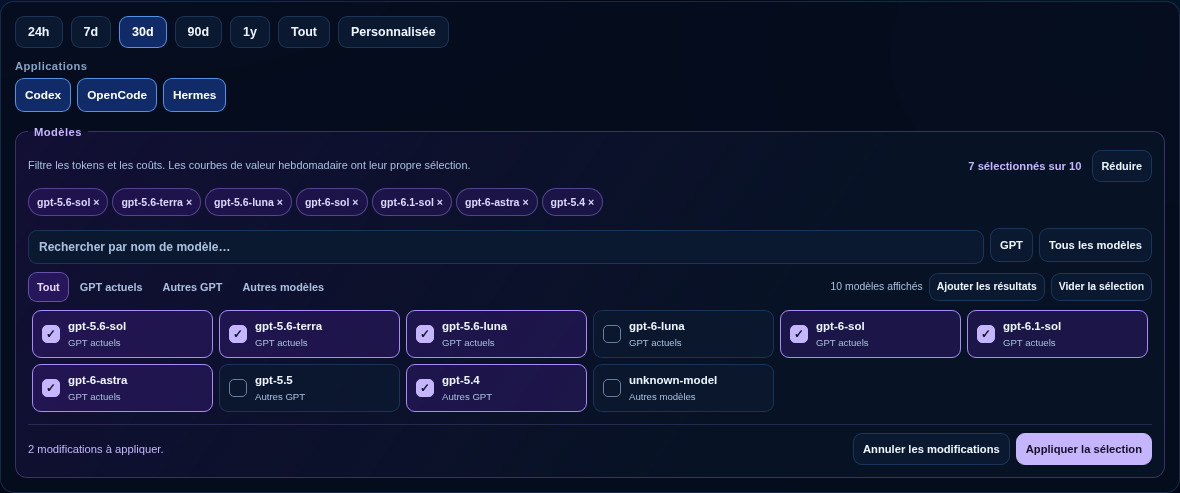
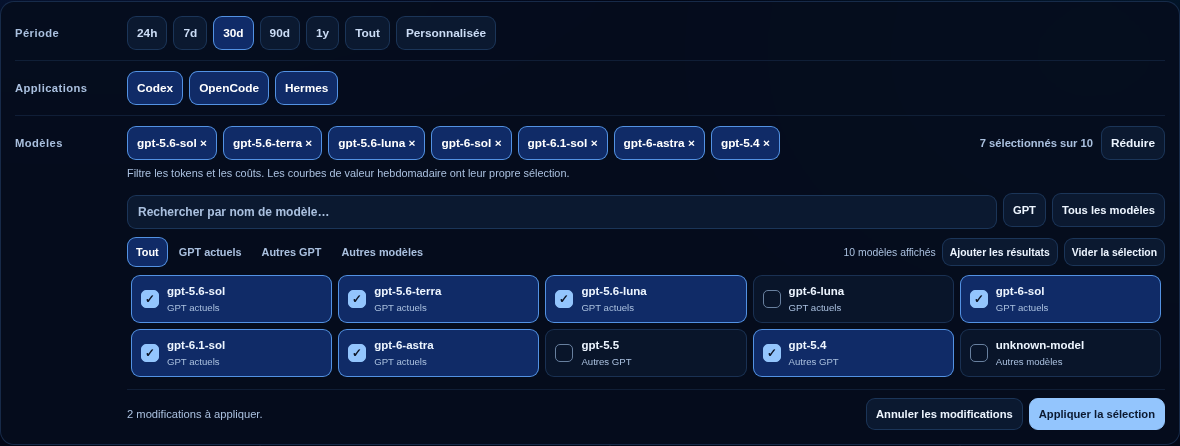
refactor: unify date, application and model filter design

diff --git a/local/analytics.html b/local/analytics.html
@@ -42,58 +42,65 @@
 
   <main class="analytics-shell">
     <section class="filter-panel" data-i18n-aria-label="analytics.filtersAria" aria-label="Analytics filters">
-      <div class="range-group" id="range-group" data-i18n-aria-label="analytics.dateRange" aria-label="Date range">
-        <button type="button" data-range="24h">24h</button>
-        <button type="button" data-range="7d">7d</button>
-        <button type="button" data-range="30d" class="active">30d</button>
-        <button type="button" data-range="90d">90d</button>
-        <button type="button" data-range="1y">1y</button>
-        <button type="button" data-range="all" data-i18n="analytics.all">All</button>
-        <button type="button" data-range="custom" data-i18n="analytics.custom">Custom</button>
-      </div>
       <div class="filter-fields">
-        <fieldset class="multi-filter">
+        <fieldset class="multi-filter filter-section period-filter">
+          <legend data-i18n="analytics.dateRange">Date range</legend>
+          <div class="filter-section-content">
+            <div class="range-group" id="range-group">
+              <button type="button" class="filter-option" data-range="24h" aria-pressed="false">24h</button>
+              <button type="button" class="filter-option" data-range="7d" aria-pressed="false">7d</button>
+              <button type="button" class="filter-option active" data-range="30d" aria-pressed="true">30d</button>
+              <button type="button" class="filter-option" data-range="90d" aria-pressed="false">90d</button>
+              <button type="button" class="filter-option" data-range="1y" aria-pressed="false">1y</button>
+              <button type="button" class="filter-option" data-range="all" aria-pressed="false" data-i18n="analytics.all">All</button>
+              <button type="button" class="filter-option" data-range="custom" aria-pressed="false" data-i18n="analytics.custom">Custom</button>
+            </div>
+            <div class="custom-dates" id="custom-dates" hidden>
+              <label><span data-i18n="analytics.from">From</span> <input id="from-date" type="date"></label>
+              <label><span data-i18n="analytics.to">To</span> <input id="to-date" type="date"></label>
+              <button type="button" id="apply-dates" data-i18n="analytics.apply">Apply</button>
+            </div>
+          </div>
+        </fieldset>
+        <fieldset class="multi-filter filter-section application-filter">
           <legend data-i18n="analytics.applications">Applications</legend>
-          <div class="filter-options" id="source-filter">
+          <div class="filter-section-content filter-options" id="source-filter">
             <button type="button" class="filter-option" data-filter-value="codex" aria-pressed="true">Codex</button>
             <button type="button" class="filter-option" data-filter-value="opencode" aria-pressed="true">OpenCode</button>
             <button type="button" class="filter-option" data-filter-value="hermes" aria-pressed="true">Hermes</button>
           </div>
         </fieldset>
-        <fieldset class="multi-filter model-filter">
+        <fieldset class="multi-filter filter-section model-filter">
           <legend data-i18n="analytics.models">Models</legend>
-          <div class="model-heading">
+          <div class="filter-section-content">
+            <div class="model-selection-row">
+              <div id="model-selection-tray" class="model-selection-tray" data-i18n-aria-label="analytics.selectedModels" aria-label="Selected models"></div>
+              <div class="model-heading-controls"><p id="model-selection-summary" class="model-selection-summary" role="status" aria-live="polite"></p><button type="button" id="toggle-model-explorer" aria-expanded="false" aria-controls="model-explorer" data-i18n="analytics.showModels">Explore models</button></div>
+            </div>
             <p class="model-scope" data-i18n="analytics.modelScope">Filter token usage and cost. Weekly value curves have their own selection.</p>
-            <div class="model-heading-controls"><p id="model-selection-summary" class="model-selection-summary" role="status" aria-live="polite"></p><button type="button" id="toggle-model-explorer" aria-expanded="false" aria-controls="model-explorer" data-i18n="analytics.showModels">Explore models</button></div>
-          </div>
-          <div id="model-selection-tray" class="model-selection-tray" data-i18n-aria-label="analytics.selectedModels" aria-label="Selected models"></div>
-          <div id="model-explorer" hidden>
-            <div class="model-toolbar">
-              <label class="model-search"><span class="sr-only" data-i18n="analytics.searchModels">Search models</span><input id="model-search" type="search" autocomplete="off" spellcheck="false" data-i18n-placeholder="analytics.searchModelsPlaceholder" placeholder="Search by model name…" aria-controls="model-filter"></label>
-              <div class="filter-actions">
-                <button type="button" id="select-gpt" data-i18n="analytics.selectGpt">GPT</button>
-                <button type="button" id="select-all-models" data-i18n="analytics.allModels">All models</button>
+            <div id="model-explorer" hidden>
+              <div class="model-toolbar">
+                <label class="model-search"><span class="sr-only" data-i18n="analytics.searchModels">Search models</span><input id="model-search" type="search" autocomplete="off" spellcheck="false" data-i18n-placeholder="analytics.searchModelsPlaceholder" placeholder="Search by model name…" aria-controls="model-filter"></label>
+                <div class="filter-actions">
+                  <button type="button" id="select-gpt" data-i18n="analytics.selectGpt">GPT</button>
+                  <button type="button" id="select-all-models" data-i18n="analytics.allModels">All models</button>
+                </div>
               </div>
-            </div>
-            <div class="model-browse-bar">
-              <div class="model-families" id="model-families" data-i18n-aria-label="analytics.modelFamilies" aria-label="Model families">
-                <button type="button" data-model-family="all" aria-pressed="true" data-i18n="analytics.all">All</button>
-                <button type="button" data-model-family="current" aria-pressed="false" data-i18n="analytics.currentGpt">Current GPT</button>
-                <button type="button" data-model-family="older" aria-pressed="false" data-i18n="analytics.olderGpt">Other GPT</button>
-                <button type="button" data-model-family="other" aria-pressed="false" data-i18n="analytics.otherModels">Other models</button>
+              <div class="model-browse-bar">
+                <div class="model-families" id="model-families" data-i18n-aria-label="analytics.modelFamilies" aria-label="Model families">
+                  <button type="button" data-model-family="all" aria-pressed="true" data-i18n="analytics.all">All</button>
+                  <button type="button" data-model-family="current" aria-pressed="false" data-i18n="analytics.currentGpt">Current GPT</button>
+                  <button type="button" data-model-family="older" aria-pressed="false" data-i18n="analytics.olderGpt">Other GPT</button>
+                  <button type="button" data-model-family="other" aria-pressed="false" data-i18n="analytics.otherModels">Other models</button>
+                </div>
+                <div class="model-results-bar"><span id="model-results-count" role="status" aria-live="polite"></span><button type="button" id="select-visible-models" data-i18n="analytics.addVisibleModels">Add visible</button><button type="button" id="clear-model-selection" data-i18n="analytics.clearModelSelection">Clear selection</button></div>
               </div>
-              <div class="model-results-bar"><span id="model-results-count" role="status" aria-live="polite"></span><button type="button" id="select-visible-models" data-i18n="analytics.addVisibleModels">Add visible</button><button type="button" id="clear-model-selection" data-i18n="analytics.clearModelSelection">Clear selection</button></div>
+              <div class="filter-options model-catalog" id="model-filter"></div>
+              <p id="model-search-empty" class="model-empty" hidden></p>
             </div>
-            <div class="filter-options model-catalog" id="model-filter"></div>
-            <p id="model-search-empty" class="model-empty" hidden></p>
+            <div class="model-apply-bar" id="model-apply-bar" hidden><p id="model-draft-status" role="status" aria-live="polite"></p><div><button type="button" id="reset-model-selection" data-i18n="analytics.cancelModelChanges">Cancel changes</button><button type="button" id="apply-model-selection" data-i18n="analytics.applyModelSelection">Apply selection</button></div></div>
           </div>
-          <div class="model-apply-bar" id="model-apply-bar" hidden><p id="model-draft-status" role="status" aria-live="polite"></p><div><button type="button" id="reset-model-selection" data-i18n="analytics.cancelModelChanges">Cancel changes</button><button type="button" id="apply-model-selection" data-i18n="analytics.applyModelSelection">Apply selection</button></div></div>
         </fieldset>
-        <div class="custom-dates" id="custom-dates" hidden>
-          <label><span data-i18n="analytics.from">From</span> <input id="from-date" type="date"></label>
-          <label><span data-i18n="analytics.to">To</span> <input id="to-date" type="date"></label>
-          <button type="button" id="apply-dates" data-i18n="analytics.apply">Apply</button>
-        </div>
       </div>
     </section>
 

diff --git a/local/assets/analytics.css b/local/assets/analytics.css
@@ -80,25 +80,38 @@
   display: flex;
   align-items: end;
   flex-wrap: wrap;
-  gap: 8px;
+  gap: 6px;
 }
 
-.filter-fields { margin-top: 12px; }
+.filter-fields { display: block; margin-top: 0; }
 
 .multi-filter {
-  min-width: 220px;
+  min-width: 0;
   max-width: 100%;
   padding: 0;
+  margin: 0;
   border: 0;
 }
 
-.multi-filter legend {
-  color: var(--muted);
+.filter-section + .filter-section {
+  margin-top: 10px;
+  padding-top: 10px;
+  border-top: 1px solid rgba(96, 165, 250, .12);
+}
+.filter-section > legend {
+  float: left;
+  width: 100px;
+  padding: 8px 0;
+  color: #aac0df;
   font-size: .7rem;
   font-weight: 700;
   letter-spacing: .04em;
-  margin-bottom: 6px;
+  line-height: 18px;
 }
+.filter-section-content { margin-left: 112px; min-width: 0; }
+.filter-section::after { content: ''; display: block; clear: both; }
+.custom-dates { margin-top: 8px; }
+.filter-panel [hidden] { display: none !important; }
 
 .filter-options {
   display: flex;
@@ -121,7 +134,9 @@
   letter-spacing: 0;
 }
 
-.filter-option[aria-pressed="true"] {
+.filter-option[aria-pressed="true"],
+.filter-option.active,
+.filter-option.selected-model {
   color: #fff;
   border-color: rgba(96, 165, 250, .85);
   background: rgba(37, 99, 235, .36);
@@ -130,24 +145,14 @@
 .filter-actions { display: flex; flex-wrap: wrap; gap: 6px; margin-bottom: 6px; }
 .filter-actions button { padding: 6px 9px; font-size: .7rem; }
 
-.model-filter {
-  flex-basis: 100%;
-  min-width: 0;
-  margin: 6px 0 0;
-  padding: 12px;
-  border: 1px solid rgba(167, 139, 250, .28);
-  border-radius: 12px;
-  background: linear-gradient(125deg, rgba(109, 40, 217, .13), rgba(8, 19, 38, .95) 65%);
-}
-.model-filter legend { padding: 0 6px; margin: 0; color: #c4b5fd; }
-.model-heading { display: flex; justify-content: space-between; align-items: center; flex-wrap: wrap; gap: 6px 16px; }
-.model-scope { flex: 1; min-width: 200px; color: #aac0df; font-size: .68rem; line-height: 1.4; margin: 0; }
-.model-heading-controls { display: flex; align-items: center; gap: 10px; }
-.model-heading-controls button { min-height: 32px; padding: 5px 9px; font-size: .68rem; }
-.model-selection-summary { color: #c4b5fd; font-size: .7rem; font-weight: 700; margin: 0; }
-.model-selection-tray { display: flex; flex-wrap: wrap; gap: 4px; margin-top: 6px; }
-.model-selection-tray:empty { margin-top: 0; }
-.model-selection-tray button { min-height: 28px; padding: 4px 8px; border-radius: 999px; color: #ddd6fe; border-color: rgba(167, 139, 250, .4); background: rgba(109, 40, 217, .16); font-size: .66rem; overflow-wrap: anywhere; min-width: 0; }
+.model-selection-row { display: flex; align-items: flex-start; flex-wrap: wrap; gap: 6px 12px; }
+.model-scope { color: #aac0df; font-size: .68rem; line-height: 1.4; margin: 6px 0 0; }
+.model-heading-controls { display: flex; align-items: center; flex-wrap: wrap; gap: 8px; }
+.model-heading-controls button { min-height: 34px; padding: 6px 9px; font-size: .74rem; }
+.model-selection-summary { color: #aac0df; font-size: .7rem; font-weight: 700; margin: 0; line-height: 34px; }
+.model-selection-tray { display: flex; flex: 1; min-width: 200px; flex-wrap: wrap; gap: 6px; }
+.model-selection-tray:empty { display: none; }
+.model-selection-tray button { overflow-wrap: anywhere; min-width: 0; }
 .model-toolbar { display: flex; align-items: center; flex-wrap: wrap; gap: 6px; margin-top: 10px; }
 .model-search { flex: 1; min-width: 180px; }
 .model-search input { width: 100%; min-width: 0; padding: 7px 10px; min-height: 34px; font-size: .75rem; }
@@ -157,28 +162,29 @@
 .model-browse-bar { display: flex; align-items: center; justify-content: space-between; flex-wrap: wrap; gap: 4px 12px; margin: 8px 0 4px; }
 .model-families { display: flex; flex-wrap: wrap; gap: 2px; }
 .model-families button { min-height: 30px; padding: 5px 8px; font-size: .68rem; color: #aac0df; background: transparent; border-color: transparent; }
-.model-families button[aria-pressed="true"] { color: #e9d5ff; background: rgba(109, 40, 217, .24); border-color: rgba(167, 139, 250, .5); }
+.model-families button[aria-pressed="true"] { color: #fff; background: rgba(37, 99, 235, .36); border-color: rgba(96, 165, 250, .85); }
 .model-results-bar { display: flex; align-items: center; flex-wrap: wrap; gap: 6px; }
 .model-results-bar span { font-size: .65rem; color: #aac0df; }
 .model-results-bar button { min-height: 28px; padding: 4px 7px; font-size: .65rem; }
 .model-catalog { display: grid; grid-template-columns: repeat(auto-fill, minmax(175px, 1fr)); gap: 6px; padding: 4px; }
 .model-catalog .filter-option { position: relative; display: grid; grid-template-columns: 18px minmax(0, 1fr); gap: 2px 8px; min-height: 48px; padding: 7px 9px; text-align: left; background: rgba(11, 25, 48, .7); }
-.model-catalog .filter-option[aria-pressed="true"] { border-color: #a78bfa; background: rgba(109, 40, 217, .19); }
+.model-catalog .filter-option[aria-pressed="true"] { border-color: rgba(96, 165, 250, .85); background: rgba(37, 99, 235, .36); }
 .model-check { grid-row: span 2; align-self: center; display: grid; place-items: center; width: 18px; height: 18px; border: 1px solid #68809f; border-radius: 5px; color: transparent; }
-.filter-option[aria-pressed="true"] .model-check { color: #0c1426; background: #c4b5fd; border-color: #c4b5fd; }
+.filter-option[aria-pressed="true"] .model-check { color: #0c1426; background: #93c5fd; border-color: #93c5fd; }
 .model-name { overflow-wrap: anywhere; font-size: .72rem; color: #edf5ff; }
 .model-family-label { font-size: .6rem; color: #aac0df; font-weight: 400; }
 .model-empty { padding: 10px; text-align: center; color: #aac0df; font-size: .75rem; }
-.model-apply-bar { display: flex; justify-content: space-between; align-items: center; flex-wrap: wrap; gap: 8px; margin-top: 8px; padding-top: 8px; border-top: 1px solid rgba(167, 139, 250, .2); }
-.model-apply-bar p { margin: 0; font-size: .7rem; color: #c4b5fd; }
+.model-apply-bar { display: flex; justify-content: space-between; align-items: center; flex-wrap: wrap; gap: 8px; margin-top: 8px; padding-top: 8px; border-top: 1px solid rgba(96, 165, 250, .12); }
+.model-apply-bar p { margin: 0; font-size: .7rem; color: #aac0df; }
 .model-apply-bar > div { display: flex; flex-wrap: wrap; gap: 6px; }
 .model-apply-bar button { min-height: 32px; padding: 5px 9px; font-size: .7rem; }
-#apply-model-selection { background: #c4b5fd; color: #15102a; border-color: #c4b5fd; }
-.model-filter :focus-visible { outline: 2px solid #c4b5fd; outline-offset: 3px; }
-.model-filter [hidden] { display: none !important; }
+#apply-model-selection { background: #93c5fd; color: #0b1930; border-color: #93c5fd; }
+.filter-panel :focus-visible { outline: 2px solid #93c5fd; outline-offset: 3px; }
 
 @media (max-width: 560px) {
-  .model-filter { padding: 10px; }
+  .filter-section > legend { float: none; width: auto; padding: 0; margin-bottom: 6px; }
+  .filter-section-content { margin-left: 0; }
+  .model-selection-tray { flex-basis: 100%; min-width: 0; }
   .model-search { flex-basis: 100%; }
   .model-catalog { grid-template-columns: repeat(2, minmax(0, 1fr)); }
   .model-apply-bar > div { width: 100%; }
@@ -383,7 +389,6 @@ td { color: #dbeafe; }
   .analytics-header .preference-controls { justify-content: flex-start; }
   .metric-grid { grid-template-columns: 1fr; }
   .metric-card { min-height: 120px; }
-  .range-group button { flex: 1 0 20%; }
   .multi-filter { width: 100%; }
   .chart-wrap { height: 230px; }
   .analytics-card { padding: 18px; }

diff --git a/local/assets/analytics.js b/local/assets/analytics.js
@@ -1038,6 +1038,7 @@ function renderModelSelection() {
     if (!button) {
       button = document.createElement('button');
       button.type = 'button';
+      button.className = 'filter-option selected-model';
       button.dataset.removeModel = model;
       button.textContent = `${model} ×`;
       tray.appendChild(button);
@@ -1171,7 +1172,10 @@ async function refresh({ restoreBreakdownOffsetOnError = false } = {}) {
 
 for (const button of document.querySelectorAll('[data-range]')) {
   button.addEventListener('click', () => {
-    document.querySelectorAll('[data-range]').forEach(item => item.classList.toggle('active', item === button));
+    document.querySelectorAll('[data-range]').forEach(item => {
+      item.classList.toggle('active', item === button);
+      item.setAttribute('aria-pressed', String(item === button));
+    });
     state.range = button.dataset.range;
     state.resetOffset = 0;
     state.breakdownOffset = 0;

diff --git a/CHANGELOG.md b/CHANGELOG.md
@@ -11,6 +11,8 @@ Git tag and the value in `VERSION` is the single source of truth.
 - Prototype a compact Analytics model explorer with searchable model cards, family
   filters, selected-model chips and explicit Apply/Cancel for batch changes.
   The explorer starts collapsed and expands without internal scrolling.
+  Date range, application and model filters share a unified row layout and
+  selection styling.
   English and French controls support keyboard navigation and mobile layouts.
 - Select GPT-6.1 Sol by default in Analytics and the GPT quick selection,
   with its own weekly-limit value curve and Standard API reference prices.

diff --git a/docs/model-selection-prototype.md b/docs/model-selection-prototype.md
@@ -1,6 +1,8 @@
 # Model selection prototype
 
 This first sketch turns the Analytics model filter into a visual workspace.
+Date range, application and model filters share aligned labels, button sizing
+and blue selection states; custom dates stay beside the date-range controls.
 The explorer starts collapsed, with the selection summary and selected chips
 visible. Expanding it shows compact cards without internal scrolling: both the
 catalog and selected chips grow naturally with their content. Apply/Cancel
